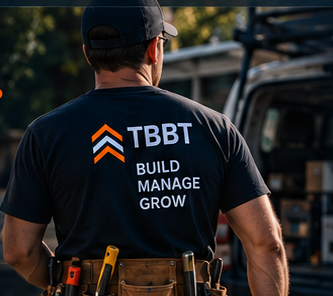
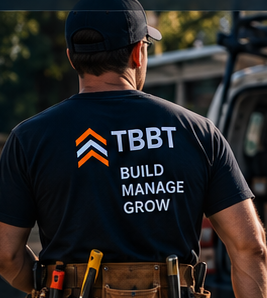
fix(marketing): tighten Pricing hero overlap and plan-card spacing
Blend the back-facing TBBT worker into the workshop hero and keep the five-plan architecture aligned with the approved reference.

diff --git a/src/components/tbbt-marketing/tbbt-pricing.css b/src/components/tbbt-marketing/tbbt-pricing.css
@@ -45,18 +45,22 @@
 .tbbt-prc-values {
   display: grid;
   grid-template-columns: repeat(2, minmax(0, 1fr));
-  gap: 0.75rem 0.9rem;
-  margin-top: 1.15rem;
+  gap: 0.85rem 1.1rem;
+  margin-top: 1.35rem;
 }
 
 .tbbt-prc-value {
   display: flex;
-  gap: 0.55rem;
+  gap: 0.6rem;
   align-items: center;
   color: #e8edf7;
 }
 
 .tbbt-prc-value-icon {
+  width: 2rem;
+  height: 2rem;
+  display: grid;
+  place-items: center;
   color: var(--tbbt-orange);
   flex-shrink: 0;
 }
@@ -64,12 +68,13 @@
 .tbbt-prc-value strong,
 .tbbt-prc-value span {
   display: block;
-  font-size: 0.78rem;
+  font-size: 0.84rem;
   line-height: 1.2;
 }
 
 .tbbt-prc-value strong {
   font-weight: 750;
+  white-space: nowrap;
 }
 
 .tbbt-prc-value span {
@@ -83,12 +88,20 @@
 
 .tbbt-prc-hero-figure img {
   display: block;
-  width: min(100%, 18rem);
-  height: 16.5rem;
+  width: min(100%, 22rem);
+  height: 18rem;
   margin-inline: auto;
   object-fit: contain;
   object-position: center bottom;
   filter: drop-shadow(0 18px 34px rgba(0, 0, 0, 0.45));
+  -webkit-mask-image:
+    linear-gradient(to right, transparent 0%, #000 24%, #000 78%, transparent 100%),
+    linear-gradient(to bottom, transparent 0%, #000 18%, #000 82%, transparent 100%);
+  mask-image:
+    linear-gradient(to right, transparent 0%, #000 24%, #000 78%, transparent 100%),
+    linear-gradient(to bottom, transparent 0%, #000 18%, #000 82%, transparent 100%);
+  -webkit-mask-composite: source-in;
+  mask-composite: intersect;
 }
 
 .tbbt-prc-hero-aside {
@@ -138,7 +151,7 @@
 }
 
 .tbbt-prc-plans {
-  padding: 0.35rem 0 1.15rem;
+  padding: 1.15rem 0 1.15rem;
 }
 
 .tbbt-prc-plan-grid {
@@ -186,7 +199,7 @@
   margin-top: auto;
   text-decoration: none;
   position: relative;
-  padding-right: 3.2rem;
+  padding-right: 4.2rem;
 }
 
 .tbbt-prc-compare-link strong {
@@ -201,16 +214,13 @@
   font-size: 0.75rem;
 }
 
-.tbbt-prc-compare-link b {
+.tbbt-prc-arrow {
   position: absolute;
-  right: 0.15rem;
-  top: 0.35rem;
-  width: 2.4rem;
-  height: 2.4rem;
-  border-bottom: 0.16rem solid var(--tbbt-orange);
-  border-right: 0.16rem solid var(--tbbt-orange);
-  border-radius: 0 0 0.7rem 0;
-  transform: rotate(18deg);
+  right: 0.1rem;
+  top: 0.15rem;
+  width: 3.4rem;
+  height: 1.9rem;
+  color: var(--tbbt-orange);
 }
 
 .tbbt-prc-status {
@@ -536,7 +546,7 @@ a.tbbt-prc-soon-btn {
   width: 100%;
   height: 100%;
   object-fit: cover;
-  object-position: 18% 48%;
+  object-position: 78% 46%;
 }
 
 .tbbt-prc-cta::after {
@@ -544,7 +554,7 @@ a.tbbt-prc-soon-btn {
   position: absolute;
   inset: 0;
   background:
-    linear-gradient(90deg, rgba(5, 8, 14, 0.18) 0%, rgba(5, 8, 14, 0.55) 38%, rgba(5, 8, 14, 0.62) 100%);
+    linear-gradient(90deg, rgba(5, 8, 14, 0.42) 0%, rgba(5, 8, 14, 0.55) 42%, rgba(5, 8, 14, 0.5) 100%);
 }
 
 .tbbt-prc-cta-inner {
@@ -610,31 +620,34 @@ a.tbbt-prc-soon-btn {
 
 @media (min-width: 900px) {
   .tbbt-prc-hero-inner {
-    grid-template-columns: minmax(22rem, 0.95fr) minmax(24rem, 1.15fr);
+    grid-template-columns: minmax(22rem, 0.88fr) minmax(26rem, 1.22fr);
     align-items: stretch;
-    min-height: 19.5rem;
+    min-height: 20.5rem;
     padding: calc(var(--tbbt-logo-h) - var(--tbbt-header-h) + 0.35rem) 0 0.4rem;
   }
 
   .tbbt-prc-hero-figure {
-    display: grid;
-    grid-template-columns: minmax(0, 1.05fr) minmax(11rem, 0.7fr);
-    align-items: end;
-    min-height: 19.5rem;
+    min-height: 20.5rem;
   }
 
   .tbbt-prc-hero-figure img {
-    width: 100%;
-    height: 100%;
-    min-height: 19.5rem;
+    position: absolute;
+    left: -8%;
+    bottom: 0;
+    width: 82%;
+    height: 118%;
     margin: 0;
     object-fit: contain;
     object-position: center bottom;
   }
 
   .tbbt-prc-hero-aside {
-    margin: 0 0 2.4rem;
-    align-self: center;
+    position: absolute;
+    right: 0;
+    top: 18%;
+    margin: 0;
+    width: min(14.5rem, 42%);
+    z-index: 2;
   }
 
   .tbbt-prc-plan-grid {
@@ -663,7 +676,8 @@ a.tbbt-prc-soon-btn {
   }
 
   .tbbt-prc-hero-figure img {
-    min-height: 21rem;
+    min-height: 0;
+    height: 115%;
   }
 
   .tbbt-prc-plan-grid {

diff --git a/src/components/tbbt-marketing/pricing.tsx b/src/components/tbbt-marketing/pricing.tsx
@@ -1,13 +1,13 @@
 import Link from "next/link";
 import {
   ArrowRight,
-  Ban,
   BarChart3,
   Brain,
   Briefcase,
   CalendarDays,
   CircleCheck,
   CirclePlus,
+  CircleX,
   Clock3,
   FileText,
   Globe,
@@ -63,7 +63,7 @@ import {
   TBBT_TAGLINE,
 } from "@/lib/tbbt-marketing";
 
-const VALUE_ICONS = [Zap, Users, Ban, Headphones] as const;
+const VALUE_ICONS = [Zap, Users, CircleX, Headphones] as const;
 const COMPARE_ICONS = [
   LayoutGrid,
   Globe,
@@ -174,7 +174,23 @@ export function TbbtPricingPage() {
             <a className="tbbt-prc-compare-link" href="#compare-plans">
               <strong>{TBBT_PRICING_PAGE_INTRO.compare}</strong>
               <span>{TBBT_PRICING_PAGE_INTRO.compareLead}</span>
-              <b aria-hidden="true" />
+              <svg className="tbbt-prc-arrow" viewBox="0 0 72 40" aria-hidden="true">
+                <path
+                  d="M4 8c18 2 40 4 52 18"
+                  fill="none"
+                  stroke="currentColor"
+                  strokeWidth="3.2"
+                  strokeLinecap="round"
+                />
+                <path
+                  d="M46 20l12 8-14 2"
+                  fill="none"
+                  stroke="currentColor"
+                  strokeWidth="3.2"
+                  strokeLinecap="round"
+                  strokeLinejoin="round"
+                />
+              </svg>
             </a>
           </article>
 

diff --git a/src/lib/tbbt-marketing.ts b/src/lib/tbbt-marketing.ts
@@ -970,8 +970,8 @@ export const TBBT_MARKETING_ASSET_SLOTS = [
   },
   {
     file: "pricing-page-hero.png",
-    ratio: "333 / 296",
-    pixelHint: "333 × 296",
+    ratio: "267 / 298",
+    pixelHint: "267 × 298",
     usage: "Pricing hero: back-facing tradesman in TBBT BUILD / MANAGE / GROW shirt.",
   },
   {
